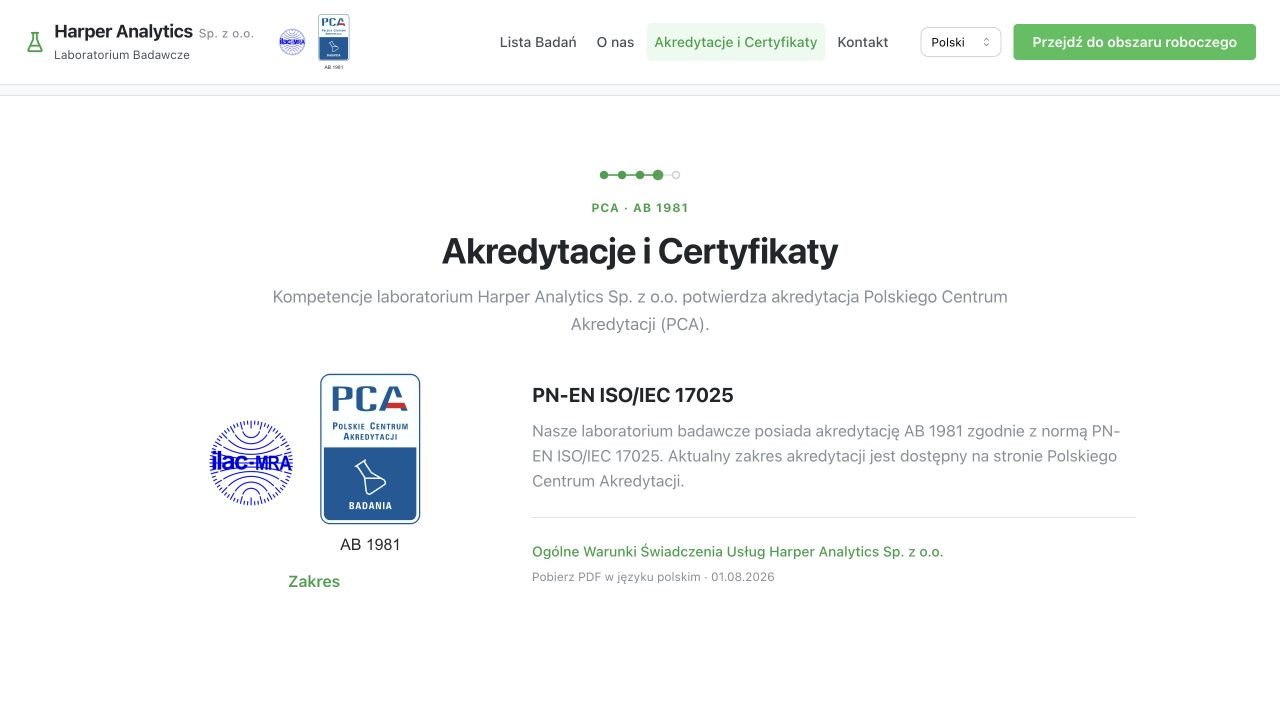
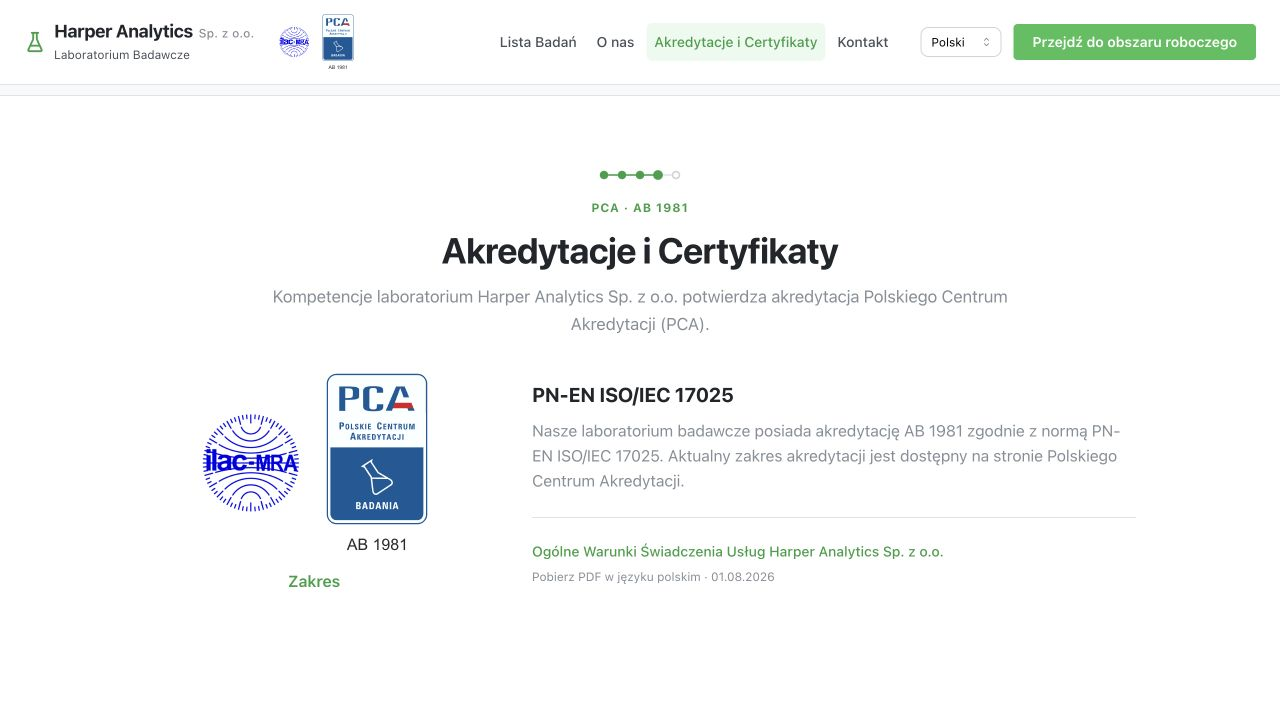
Match ILAC circle diameter to PCA symbol width

Changed region(s): [[0.1562, 0.5194, 0.3438, 0.7639], [0.2188, 0.0, 0.2812, 0.0917]]

diff --git a/apps/web/src/components/landing/landing.module.css b/apps/web/src/components/landing/landing.module.css
@@ -443,7 +443,9 @@
 }
 
 .ilacLogo {
-  height: calc(var(--accreditation-logo-height) / 2);
+  /* Match the rendered width of the 203 x 359 PCA artwork. */
+  width: calc(var(--accreditation-logo-height) * 203 / 359);
+  height: auto;
 }
 
 .accreditationCopy {
